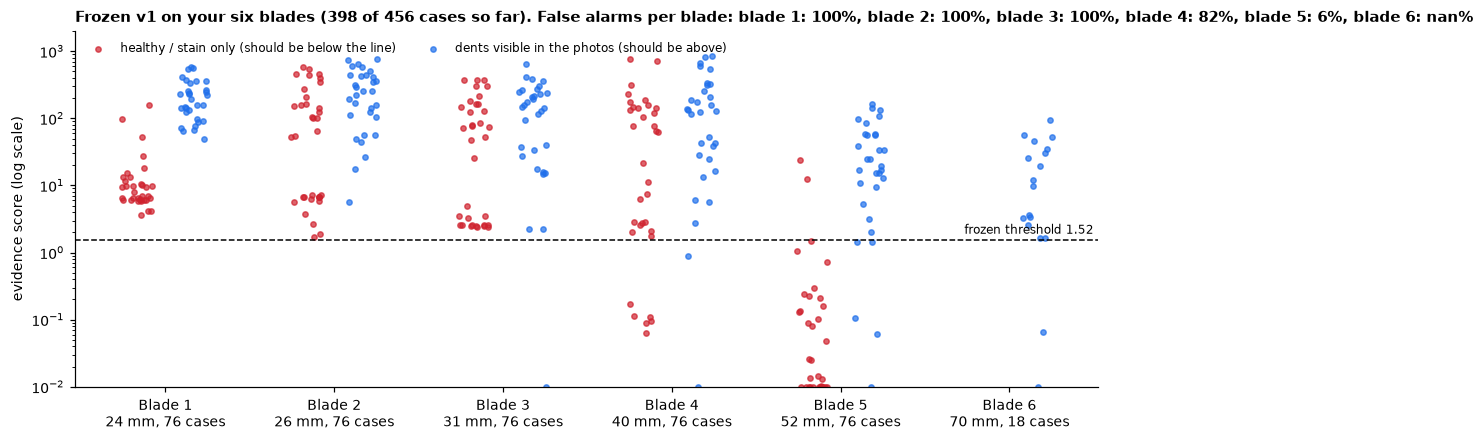
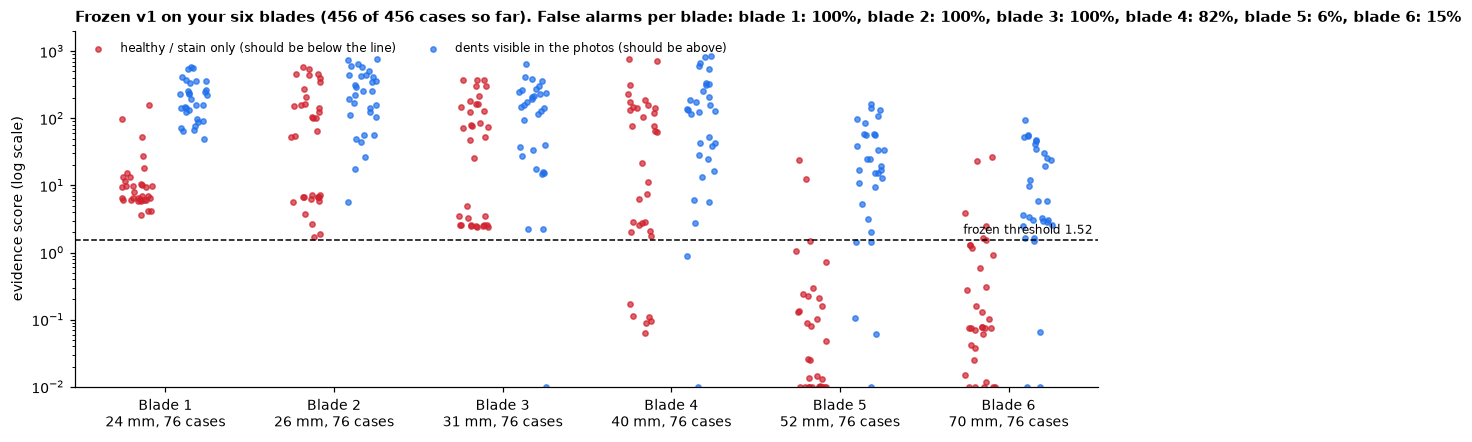
Auto-update results (interim)

diff --git a/results.html b/results.html
@@ -6,7 +6,7 @@
 <link rel="stylesheet" href="styles.css">
 <style>main.res{max-width:1100px;margin:0 auto;padding:32px 16px 64px;display:grid;gap:18px} main.res small{color:var(--muted)}</style>
 </head><body><main class="res">
-<span class="eyebrow">BladeDelta results · 08 Oct 2026, 12:22 UTC</span>
+<span class="eyebrow">BladeDelta results · 08 Oct 2026, 13:43 UTC</span>
 <h1>Sealed-test results <span class="chip partial">updating automatically</span></h1>
 <p>This page is rebuilt automatically from the experiment outputs. The test set is 240 cases on 30 blade shapes never used
 for development; the method and its threshold were locked before any test image existed. Brackets are 95% intervals,
@@ -48,13 +48,13 @@ The disagreements are small, but on your blades they are enough to pull the came
 <div class="tablewrap"><table><thead><tr><th>Method</th><th>Separation (AUROC)</th><th>Visible dents found</th><th>…in the right place</th><th>False alarms</th><th>Hidden dents: abstains</th></tr></thead><tbody><tr><td><b>Ours (evidence-bounded)</b></td><td>0.82 <small>[0.71–0.90]</small></td><td>54% <small>[39–68]</small></td><td>54% <small>[39–68]</small></td><td>10% <small>[4–17]</small></td><td>85% <small>[77–91]</small></td></tr><tr><td><b>Ours without the evidence test</b></td><td>0.82 <small>[0.71–0.90]</small></td><td>84% <small>[68–95]</small></td><td>70% <small>[56–84]</small></td><td>32% <small>[21–43]</small></td><td>45% <small>[36–54]</small></td></tr><tr><td><b>2D detector lifted to 3D</b></td><td>0.71 <small>[0.63–0.80]</small></td><td>24% <small>[12–40]</small></td><td>16% <small>[5–30]</small></td><td>4% <small>[1–9]</small></td><td>96% <small>[93–99]</small></td></tr><tr><td><b>Free-form field (per vertex)</b></td><td>0.63 <small>[0.54–0.70]</small></td><td>14% <small>[4–24]</small></td><td>11% <small>[3–20]</small></td><td>4% <small>[1–9]</small></td><td>99% <small>[97–100]</small></td></tr><tr><td><b>Discrete search (earlier method)</b></td><td>0.53 <small>[0.43–0.65]</small></td><td>5% <small>[0–13]</small></td><td>5% <small>[0–13]</small></td><td>6% <small>[1–10]</small></td><td>98% <small>[95–100]</small></td></tr><tr><td><b>Unchanged CAD (never reports)</b></td><td>0.50 <small>[0.50–0.50]</small></td><td>0% <small>[0–0]</small></td><td>0% <small>[0–0]</small></td><td>0% <small>[0–0]</small></td><td>100% <small>[100–100]</small></td></tr></tbody></table></div>
 <h3>Ours, by capture condition</h3><div class="tablewrap"><table><thead><tr><th>Capture</th><th>Visible dents found</th><th>False alarms</th></tr></thead><tbody><tr><td>nominal</td><td>33%</td><td>10%</td></tr><tr><td>camera</td><td>60%</td><td>14%</td></tr><tr><td>light</td><td>78%</td><td>0%</td></tr><tr><td>both</td><td>44%</td><td>15%</td></tr></tbody></table></div>
 <figure><img src="img/results/cad6_blades.png" alt="Six CAD blades"></figure>
-<h2>New blades: your six real blade CAD models (398 of 456 cases so far)</h2>
+<h2>New blades: your six real blade CAD models (456 of 456 cases so far)</h2>
 <p>Six real blade designs with platforms and dovetail roots (33–88 mm), imported from STEP. Dents use real sizes
 (0.1–1.0 mm deep, 1–5 mm radius). Nothing was retrained or re-tuned: the method, its appearance model (trained only on
 Rotor37) and its threshold are the frozen ones, so this measures how well it transfers to new blade designs.</p>
-<div class="tablewrap"><table><thead><tr><th>Method</th><th>Separation (AUROC)</th><th>Visible dents found</th><th>…in the right place</th><th>False alarms</th><th>Hidden dents: abstains</th></tr></thead><tbody><tr><td><b>Ours (evidence-bounded)</b></td><td>0.72 <small>[0.59–0.84]</small></td><td>94% <small>[89–98]</small></td><td>70% <small>[59–81]</small></td><td>78% <small>[40–100]</small></td><td>24% <small>[0–64]</small></td></tr><tr><td><b>Ours without the evidence test</b></td><td>0.72 <small>[0.59–0.84]</small></td><td>97% <small>[95–99]</small></td><td>72% <small>[60–85]</small></td><td>84% <small>[56–100]</small></td><td>20% <small>[0–56]</small></td></tr></tbody></table></div>
-<h3>Does it depend on blade size?</h3><ul><li>Separation (AUROC): 0.72 on CAD6 vs 0.82 on the Rotor37 sealed test (transfer gap 0.10).</li><li>Visible dents found 94%, false alarms 78%, hidden dents abstained 24%.</li><li>Best blade 1 (24 mm), worst blade 3 (31 mm).</li><li>Blade size vs. dents found, across 6 blades: Spearman ρ = -0.93 (p = 0.01; only 6 blades, so weak evidence).</li><li>Smaller blades (≤ median span) found 99% vs larger 89%. The same dent in mm is relatively larger on a small blade, so we also check depth relative to the blade: ρ(found, relative depth) = 0.09, ρ(found, depth in mm) = 0.01.</li><li>Found rate by relative-depth tertile (shallow → deep): 93%, 93%, 97%.</li><li>With a threshold recalibrated leave-one-blade-out on CAD6 negatives: found 13%, false alarms 5%.</li><li>Recommended blade for the physical capture: blade 5 (better transfer of blades 4 and 5).</li></ul>
-<div class="tablewrap"><table><thead><tr><th>Blade</th><th>Airfoil span</th><th>Cases</th><th>Visible dents</th><th>AUROC</th><th>Found</th><th>False alarms</th></tr></thead><tbody><tr><td>1</td><td>24 mm</td><td>76</td><td>31</td><td>0.98</td><td>100%</td><td>100%</td></tr><tr><td>2</td><td>26 mm</td><td>76</td><td>31</td><td>0.72</td><td>100%</td><td>100%</td></tr><tr><td>3</td><td>31 mm</td><td>76</td><td>31</td><td>0.64</td><td>97%</td><td>100%</td></tr><tr><td>4</td><td>40 mm</td><td>76</td><td>31</td><td>0.66</td><td>94%</td><td>82%</td></tr><tr><td>5</td><td>52 mm</td><td>76</td><td>31</td><td>0.93</td><td>84%</td><td>6%</td></tr><tr><td>6</td><td>70 mm</td><td>18</td><td>18</td><td>--</td><td>89%</td><td>–</td></tr></tbody></table></div>
+<div class="tablewrap"><table><thead><tr><th>Method</th><th>Separation (AUROC)</th><th>Visible dents found</th><th>…in the right place</th><th>False alarms</th><th>Hidden dents: abstains</th></tr></thead><tbody><tr><td><b>Ours (evidence-bounded)</b></td><td>0.74 <small>[0.67–0.84]</small></td><td>94% <small>[89–98]</small></td><td>70% <small>[60–81]</small></td><td>67% <small>[36–97]</small></td><td>33% <small>[3–67]</small></td></tr><tr><td><b>Ours without the evidence test</b></td><td>0.74 <small>[0.67–0.84]</small></td><td>97% <small>[94–99]</small></td><td>73% <small>[61–84]</small></td><td>77% <small>[53–99]</small></td><td>27% <small>[2–58]</small></td></tr></tbody></table></div>
+<h3>Does it depend on blade size?</h3><ul><li>Separation (AUROC): 0.74 on CAD6 vs 0.82 on the Rotor37 sealed test (transfer gap 0.08).</li><li>Visible dents found 94%, false alarms 67%, hidden dents abstained 33%.</li><li>Best blade 1 (24 mm), worst blade 3 (31 mm).</li><li>Blade size vs. dents found, across 6 blades: Spearman ρ = -0.93 (p = 0.01; only 6 blades, so weak evidence).</li><li>Smaller blades (≤ median span) found 99% vs larger 88%. The same dent in mm is relatively larger on a small blade, so we also check depth relative to the blade: ρ(found, relative depth) = 0.10, ρ(found, depth in mm) = 0.02.</li><li>Found rate by relative-depth tertile (shallow → deep): 92%, 92%, 97%.</li><li>With a threshold recalibrated leave-one-blade-out on CAD6 negatives: found 13%, false alarms 4%.</li><li>Recommended blade for the physical capture: blade 5 (better transfer of blades 4 and 5).</li></ul>
+<div class="tablewrap"><table><thead><tr><th>Blade</th><th>Airfoil span</th><th>Cases</th><th>Visible dents</th><th>AUROC</th><th>Found</th><th>False alarms</th></tr></thead><tbody><tr><td>1</td><td>24 mm</td><td>76</td><td>31</td><td>0.98</td><td>100%</td><td>100%</td></tr><tr><td>2</td><td>26 mm</td><td>76</td><td>31</td><td>0.72</td><td>100%</td><td>100%</td></tr><tr><td>3</td><td>31 mm</td><td>76</td><td>31</td><td>0.64</td><td>97%</td><td>100%</td></tr><tr><td>4</td><td>40 mm</td><td>76</td><td>31</td><td>0.66</td><td>94%</td><td>82%</td></tr><tr><td>5</td><td>52 mm</td><td>76</td><td>31</td><td>0.93</td><td>84%</td><td>6%</td></tr><tr><td>6</td><td>70 mm</td><td>76</td><td>31</td><td>0.86</td><td>87%</td><td>15%</td></tr></tbody></table></div>
 <h2>Risk vs. coverage</h2><figure><img src="img/results/risk_coverage.png" alt="Risk-coverage curves" style="max-width:560px">
 <figcaption>Sweeping the evidence threshold: how many cases get a damage claim (coverage) and what fraction of those claims are wrong (risk). Lower and further right is better.</figcaption></figure>
 <h2>Ablations (36 development cases)</h2><div class="tablewrap"><table><thead><tr><th>Variant</th><th>Separation</th><th>Visible found</th><th>False alarms</th></tr></thead><tbody><tr><td>Full method</td><td>0.85 <small>[0.77–0.96]</small></td><td>67% <small>[41–88]</small></td><td>0% <small>[0–0]</small></td></tr><tr><td>No camera correction</td><td>0.68 <small>[0.49–0.84]</small></td><td>89% <small>[72–100]</small></td><td>39% <small>[21–56]</small></td></tr><tr><td>No stain model</td><td>0.75 <small>[0.56–0.90]</small></td><td>89% <small>[77–100]</small></td><td>50% <small>[33–69]</small></td></tr><tr><td>Random starts instead of smart proposals</td><td>0.42 <small>[0.23–0.62]</small></td><td>6% <small>[0–20]</small></td><td>0% <small>[0–0]</small></td></tr><tr><td>Fixed grid of 4 starts</td><td>–</td><td>0% <small>[0–0]</small></td><td>–</td></tr><tr><td>Whole image, not reliable pixels</td><td>0.69 <small>[0.49–0.85]</small></td><td>78% <small>[53–95]</small></td><td>6% <small>[0–20]</small></td></tr><tr><td>No brightness field</td><td>0.85 <small>[0.72–0.95]</small></td><td>94% <small>[80–100]</small></td><td>33% <small>[11–59]</small></td></tr><tr><td>4 views</td><td>0.83 <small>[0.71–0.95]</small></td><td>78% <small>[61–94]</small></td><td>6% <small>[0–19]</small></td></tr><tr><td>7 views</td><td>0.85 <small>[0.69–0.98]</small></td><td>78% <small>[61–94]</small></td><td>11% <small>[0–29]</small></td></tr></tbody></table></div>

diff --git a/index.html b/index.html
@@ -58,7 +58,7 @@
       <span class="eyebrow">Latest updates · 7 October 2026, afternoon</span>
       <h2 id="h-latest">Latest results, in pictures</h2>
       <p><b>Final sealed-test numbers and every method side by side: <a href="results.html">live results page</a></b> (rebuilt automatically as experiments finish).</p>
-      <!--AUTO-STATUS-START--><div class="note"><strong>Automatic status · 08 Oct 2026, 12:22 UTC</strong><p>5 of 14 phases done. Sealed test: separation 0.82, 54% of visible dents found, 10% false alarms. <a href="results.html">Full results and charts →</a></p></div><!--AUTO-STATUS-END-->
+      <!--AUTO-STATUS-START--><div class="note"><strong>Automatic status · 08 Oct 2026, 13:43 UTC</strong><p>5 of 14 phases done. Sealed test: separation 0.82, 54% of visible dents found, 10% false alarms. <a href="results.html">Full results and charts →</a></p></div><!--AUTO-STATUS-END-->
       <div class="stats">
         <div class="stat"><span class="big">213 / 240</span><span class="lbl">sealed-test cases done (27 never-seen blades); numbers below are preliminary</span></div>
         <div class="stat"><span class="big">0.81</span><span class="lbl">separation of visible dents from healthy/stained blades (was 0.89 at 80 cases)</span></div>
